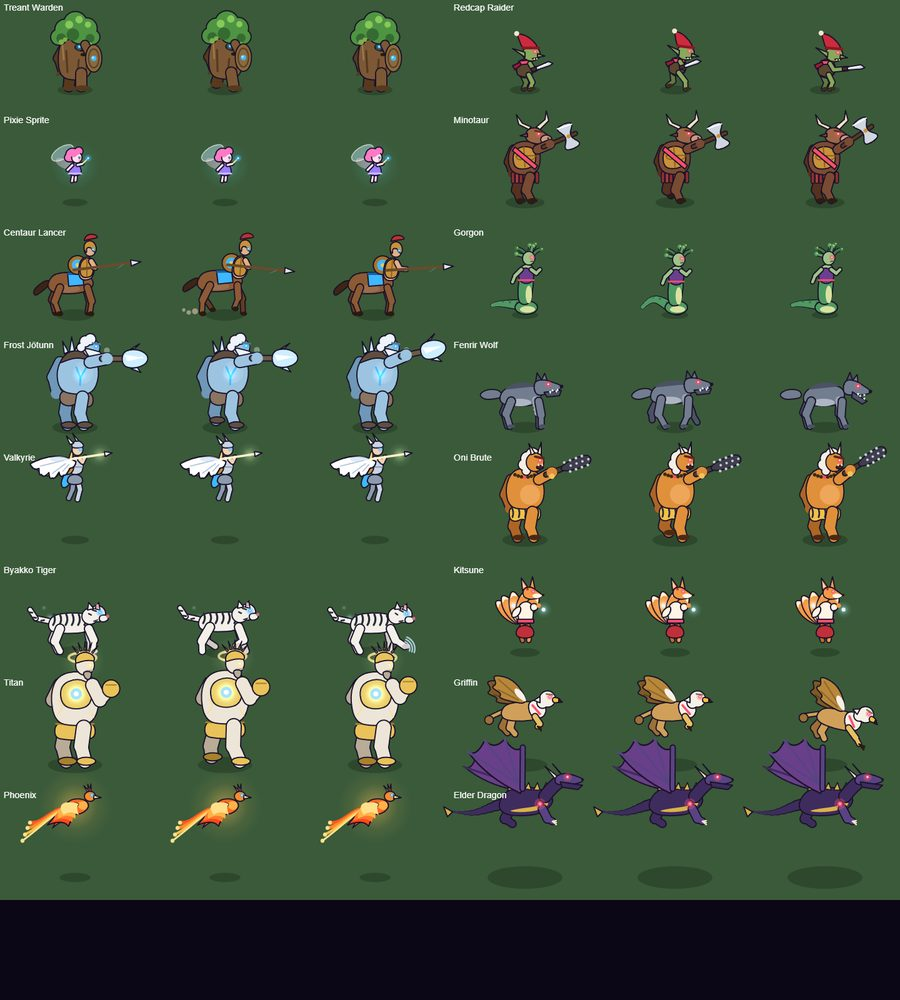
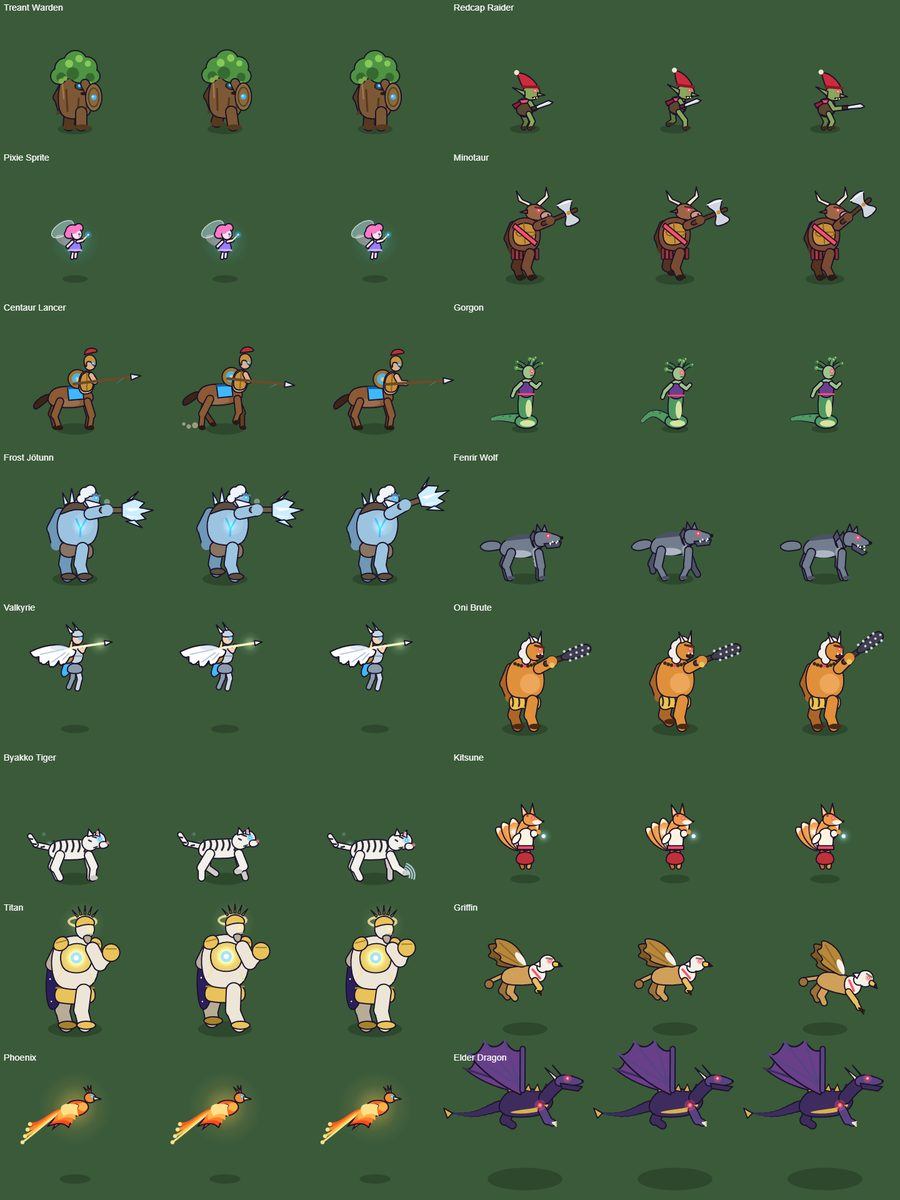
Gallery: taller cells; refreshed creature showcase

diff --git a/src/gallery.ts b/src/gallery.ts
@@ -11,7 +11,7 @@ export function runGallery(root: HTMLElement): void {
   const units = AGE_UNITS.flat();
   const scale = Number(new URLSearchParams(location.search).get('scale') ?? 2);
   const cellW = 120 * scale;
-  const cellH = 90 * scale;
+  const cellH = 120 * scale;
   const cols = 3;
   const resize = () => {
     canvas.width = cols * cellW * 2;
@@ -33,7 +33,7 @@ export function runGallery(root: HTMLElement): void {
       const row = Math.floor(i / 2);
       for (let k = 0; k < cols; k++) {
         const x = (col + k) * cellW + cellW / 2;
-        const y = row * cellH + cellH * 0.8;
+        const y = row * cellH + cellH * 0.86;
         ctx.fillStyle = 'rgba(0,0,0,0.2)';
         ctx.beginPath();
         ctx.ellipse(x, y, def.radius * scale, def.radius * scale * 0.3, 0, 0, Math.PI * 2);

diff --git a/scripts/shoot.ts b/scripts/shoot.ts
@@ -113,7 +113,7 @@ const SCENARIOS: Scenario[] = [
     script: `(() => { const w = window.__mythwar.game.world; w.players[1].baseHp = 1; w.damageBase(1, 10, 0, 0); })()`,
     after: 3600,
   },
-  { name: 'gallery', query: 'gallery&scale=2', w: 1440, h: 1600, wait: 1200 },
+  { name: 'gallery', query: 'gallery&scale=2', w: 1440, h: 2000, wait: 1200 },
   { name: 'mobile-play-start', query: 'play=novice&seed=4', w: 844, h: 390, mobile: true, dpr: 2, wait: 2500 },
   { name: 'play-start', query: 'play=adept&seed=4', w: 1600, h: 900, wait: 3000 },
 ];
